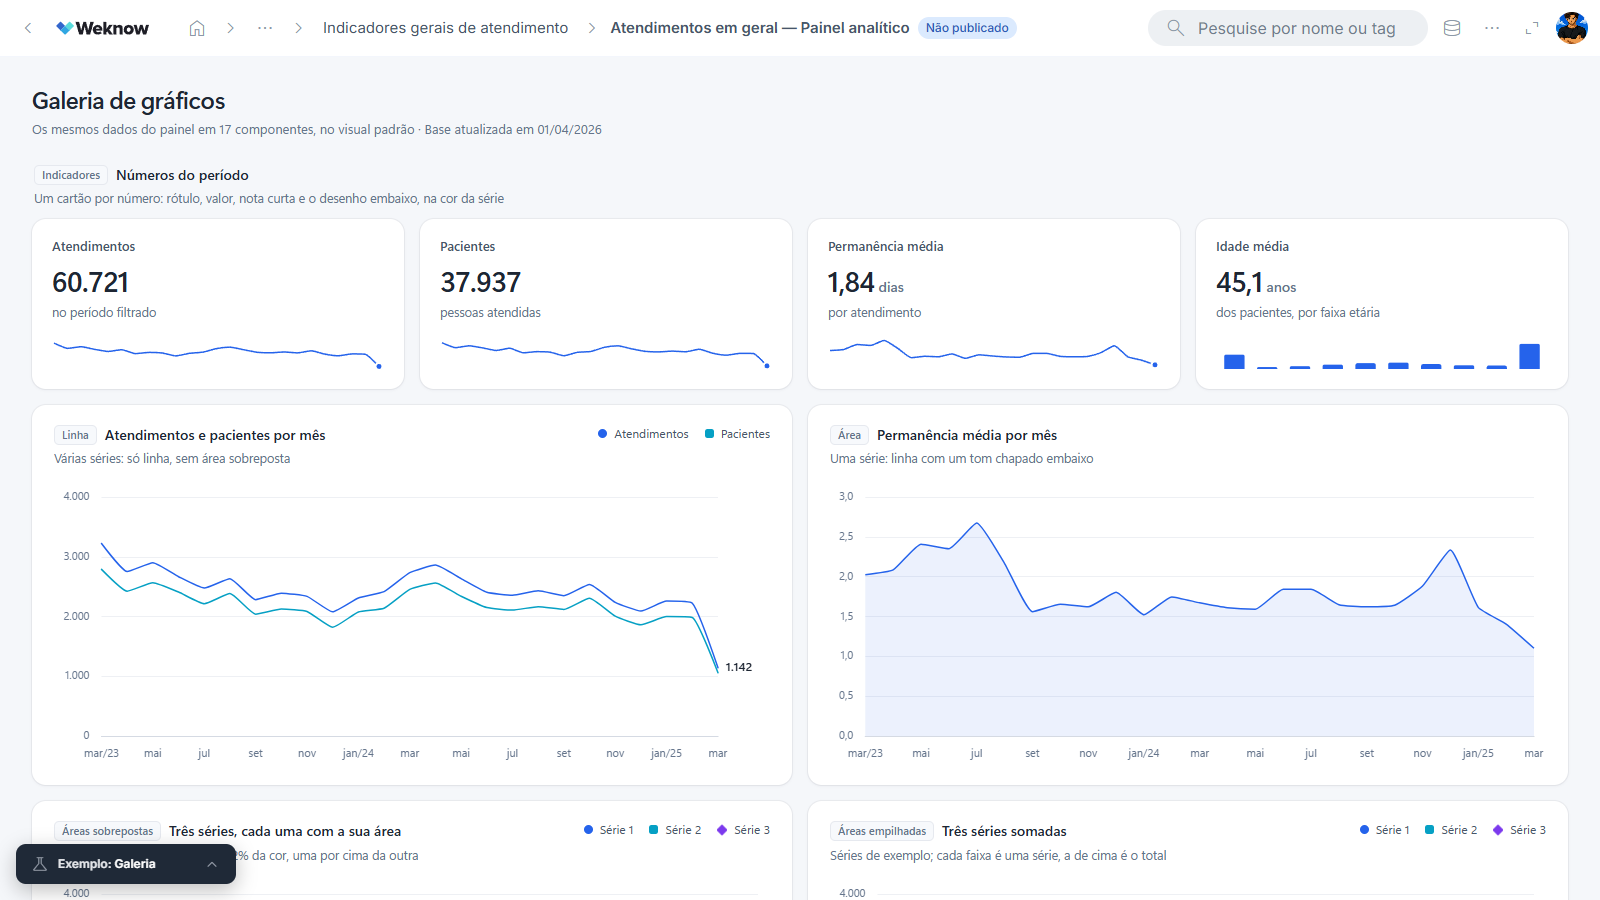
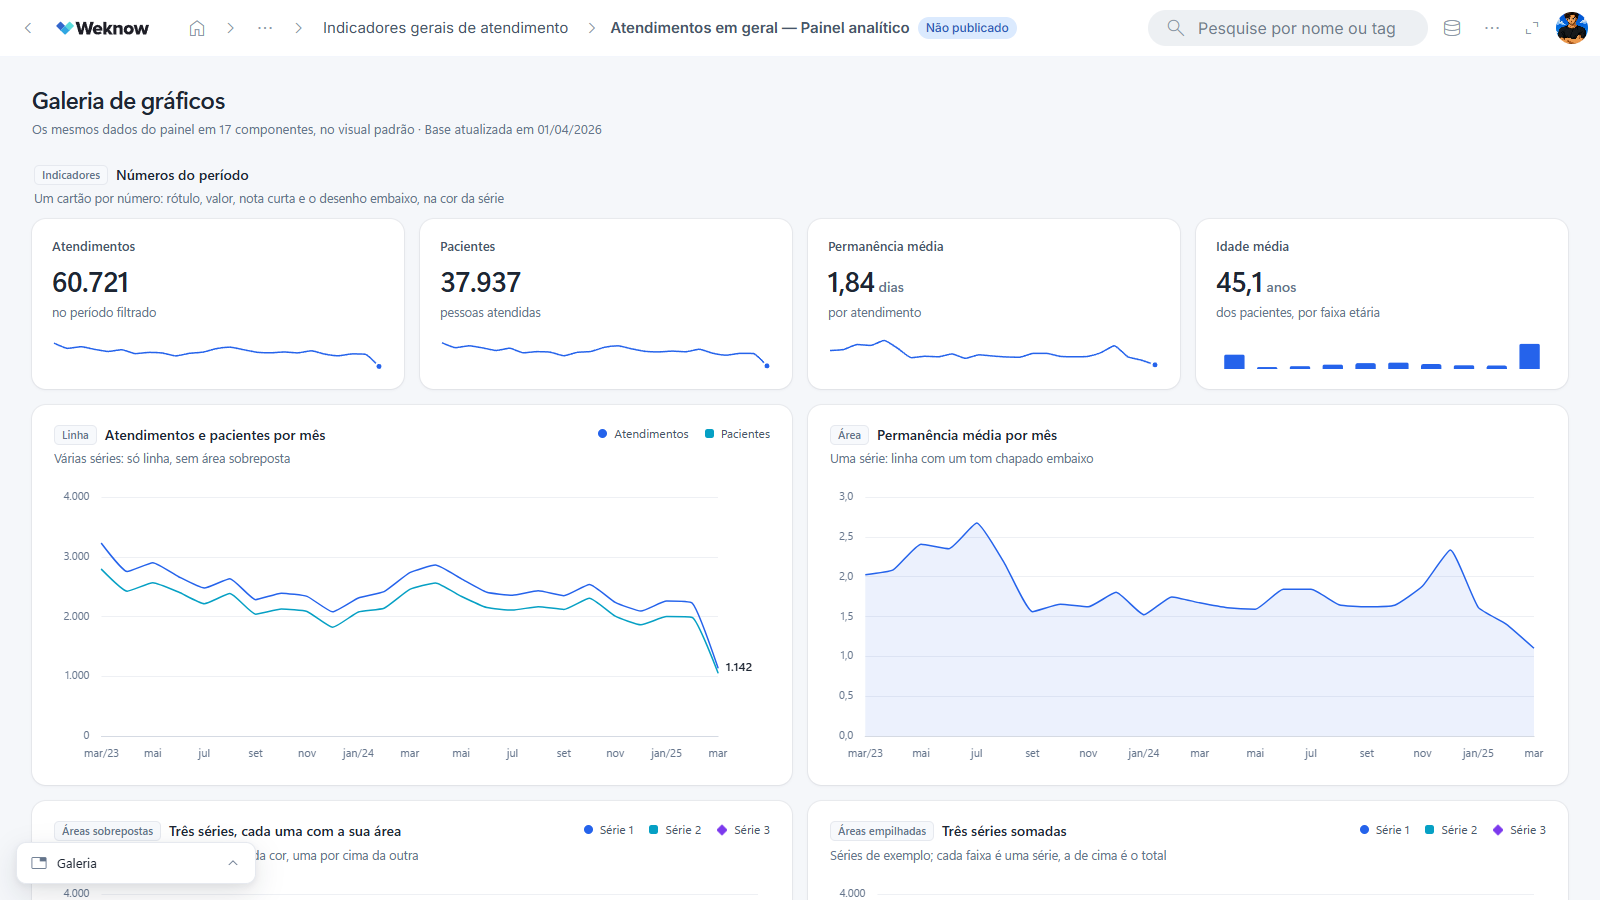
Dashboard MCP: troca de exemplo vira as abas do dashboard
O controle escuro do canto passa a simular a navegação de abas que a IA
desenharia se a pessoa pedisse abas: botão com a aba atual que abre a
lista, no visual padrão do painel (mesma lista do seletor de filtro,
claro e escuro). Escolher uma aba, clicar fora ou Esc fecha a lista.

Changed region(s): [[0.0, 0.9333, 0.1562, 0.9956]]

diff --git a/projects/painel_ia_fontes/index.html b/projects/painel_ia_fontes/index.html
@@ -567,13 +567,41 @@ button.marker:hover, button.marker[aria-expanded="true"] { background: var(--wk-
    folga dentro do item), não na borda da caixa deles. */
 ul.versions + .note { padding-left: 12px; }
 
-/* ─── exemplos: cada um é um painel do MCP com outro formato, para o
-   estudo do visual padrão (projects/painel_padrao). O dashboard do MCP
-   não tem a barra de abas de baixo do dashboard normal (abas só se a
-   pessoa pedir, e a IA desenha), então a troca entre eles é um controle
-   do protótipo, com o mesmo visual escuro do .demo abaixo. ─── */
-.demo.exemplos { bottom: 16px; min-width: 220px; }
-.exemplos .demo-toggle .atual { color: #fff; }
+/* ─── abas do dashboard do MCP: cada exemplo (galeria, testes, original)
+   é uma aba. O dashboard do MCP não tem a barra de baixo do dashboard
+   normal; abas só existem se a pessoa pedir, e a IA desenha a navegação.
+   Aqui ela é simulada como a IA faria: um botão flutuante com a aba atual
+   que abre a lista, no visual padrão do painel (tokens do example em
+   painel_padrao/json/exemplo.html: cartão, borda, véu e primária, a mesma
+   lista do seletor de filtro). ─── */
+.navabas {
+  --n-fundo: #ffffff; --n-borda: #e6e9ef; --n-hover: #f7f9fc; --n-texto: #1e2633; --n-texto-3: #64748b;
+  --n-primaria: #3366cc; --n-veu: rgba(51, 102, 204, .12);
+  --n-sombra: 0 10px 28px rgba(16, 24, 40, .12), 0 2px 6px rgba(16, 24, 40, .06);
+  position: fixed; left: 16px; bottom: 16px; z-index: 50; min-width: 240px; padding: 4px;
+  display: flex; flex-direction: column; gap: 2px;
+  background: var(--n-fundo); border: 1px solid var(--n-borda); border-radius: 10px; box-shadow: var(--n-sombra);
+  font: 13px/1.2 "Segoe UI Variable Text", "Segoe UI", system-ui, -apple-system, sans-serif; color: var(--n-texto);
+}
+:root[data-theme="dark"] .navabas {
+  --n-fundo: #242527; --n-borda: #323436; --n-hover: #2c2d30; --n-texto: #eff0f0; --n-texto-3: #9a9ea4;
+  --n-primaria: #8ab4f8; --n-veu: rgba(138, 180, 248, .18); --n-sombra: 0 10px 28px rgba(0, 0, 0, .45);
+}
+.navabas button {
+  height: 32px; padding: 0 8px; border: 0; border-radius: 6px; cursor: pointer;
+  display: flex; align-items: center; gap: 8px; width: 100%;
+  background: none; color: inherit; font: inherit; text-align: left; white-space: nowrap;
+}
+.navabas button:hover { background: var(--n-hover); }
+.navabas button:focus-visible { outline: 2px solid var(--n-primaria); outline-offset: -2px; }
+.navabas .ms { color: var(--n-texto-3); }
+.navabas-atual { font-weight: 600; }
+.navabas-atual .chev { margin-left: auto; transition: transform .15s ease; }
+.navabas-atual[aria-expanded="true"] .chev { transform: rotate(180deg); }
+.navabas-lista { display: flex; flex-direction: column; gap: 2px; padding-bottom: 4px; margin-bottom: 2px; border-bottom: 1px solid var(--n-borda); }
+.navabas-lista[hidden] { display: none; }
+.navabas-lista button { padding-left: 36px; }
+.navabas-lista button[aria-current="page"] { background: var(--n-veu); color: var(--n-primaria); font-weight: 600; }
 
 /* ─── controle do protótipo (não faz parte da interface): escuro de
    propósito, para não ser lido como parte da tela ─── */
@@ -675,9 +703,9 @@ ul.versions + .note { padding-left: 12px; }
   </aside>
 </div>
 
-<!-- Controle do protótipo: não faz parte da interface. Troca entre os
-     exemplos (galeria, testes e o original); fica recolhido no canto. -->
-<nav class="demo exemplos" id="paginas" aria-label="Exemplos do protótipo"></nav>
+<!-- Abas do dashboard, como a IA desenharia se a pessoa pedisse abas:
+     cada exemplo (galeria, testes e o original) é uma aba. -->
+<nav class="navabas" id="paginas" aria-label="Abas do dashboard"></nav>
 
 <!-- Controle do protótipo: não faz parte da interface. Simula as três
      situações de publicação; recolhe num botão e reabre por ele. -->
@@ -1393,17 +1421,25 @@ ul.versions + .note { padding-left: 12px; }
     const r = await fetch(p.arquivo, { cache: 'no-store' }).catch(() => null);
     return r && r.ok ? r.text() : `<!doctype html><body style="font:14px system-ui;padding:24px;color:#64748b">Esta página ainda não existe (${esc(p.arquivo)}).`;
   }
-  let exemplosAbertos = false;
+  /* Abas: o botão mostra a aba atual e abre a lista acima dele; escolher
+     uma aba, clicar fora ou Esc fecha a lista. */
+  let abasAbertas = false;
   function renderPaginas() {
     const atual = PAGINAS.find((p) => p.id === pagina);
     $('#paginas').innerHTML =
-      `<div class="demo-opts" id="ex-opts" role="group" aria-label="Exemplos" ${exemplosAbertos ? '' : 'hidden'}>` +
-      PAGINAS.map((p) => `<button type="button" data-pagina="${p.id}" aria-pressed="${p.id === pagina}" title="${esc(p.nota ? `Pedido: ${p.nota}` : p.nome)}">${esc(p.nome)}</button>`).join('') + '</div>' +
-      `<button type="button" class="demo-toggle" id="ex-toggle" aria-expanded="${exemplosAbertos}" aria-controls="ex-opts">` +
-      `<span class="ms s20" aria-hidden="true">science</span><span>Exemplo: <span class="atual">${esc(atual.nome)}</span></span><span class="ms s20 chev" aria-hidden="true">expand_more</span></button>`;
-    $('#paginas').querySelectorAll('[data-pagina]').forEach((b) => (b.onclick = () => abrirPagina(b.dataset.pagina)));
-    $('#ex-toggle').onclick = () => { exemplosAbertos = !exemplosAbertos; renderPaginas(); $('#ex-toggle').focus(); };
+      `<div class="navabas-lista" id="abas-lista" ${abasAbertas ? '' : 'hidden'}>` +
+      PAGINAS.map((p) => `<button type="button" data-pagina="${p.id}" ${p.id === pagina ? 'aria-current="page"' : ''} title="${esc(p.nota ? `Pedido: ${p.nota}` : p.nome)}">${esc(p.nome)}</button>`).join('') + '</div>' +
+      `<button type="button" class="navabas-atual" id="abas-botao" aria-expanded="${abasAbertas}" aria-controls="abas-lista">` +
+      `<span class="ms s20" aria-hidden="true">tab</span><span>${esc(atual.nome)}</span><span class="ms s20 chev" aria-hidden="true">expand_less</span></button>`;
+    $('#paginas').querySelectorAll('[data-pagina]').forEach((b) => (b.onclick = () => { abasAbertas = false; abrirPagina(b.dataset.pagina).then(() => $('#abas-botao').focus()); }));
+    $('#abas-botao').onclick = () => { abasAbertas = !abasAbertas; renderPaginas(); $('#abas-botao').focus(); };
   }
+  document.addEventListener('click', (e) => { if (abasAbertas && !e.composedPath().some((n) => n.id === 'paginas')) { abasAbertas = false; renderPaginas(); } });
+  /* clique dentro do painel (iframe) não chega aqui, mas tira o foco da janela */
+  window.addEventListener('blur', () => setTimeout(() => {
+    if (abasAbertas && document.activeElement?.tagName === 'IFRAME') { abasAbertas = false; renderPaginas(); }
+  }));
+  document.addEventListener('keydown', (e) => { if (abasAbertas && e.key === 'Escape') { abasAbertas = false; renderPaginas(); $('#abas-botao').focus(); } });
   async function abrirPagina(id) {
     const p = PAGINAS.find((x) => x.id === id);
     if (!p || !contents) return;
